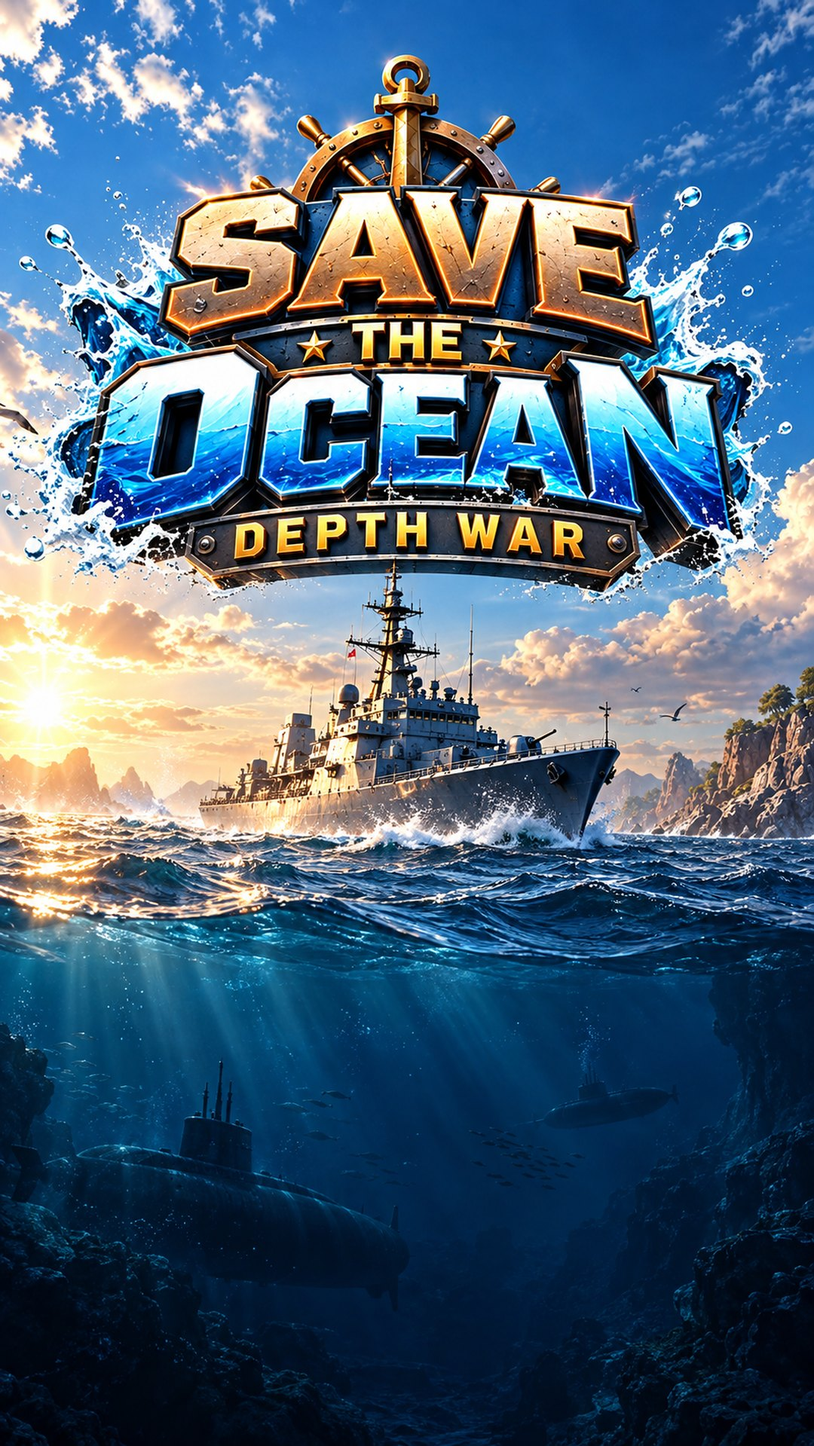
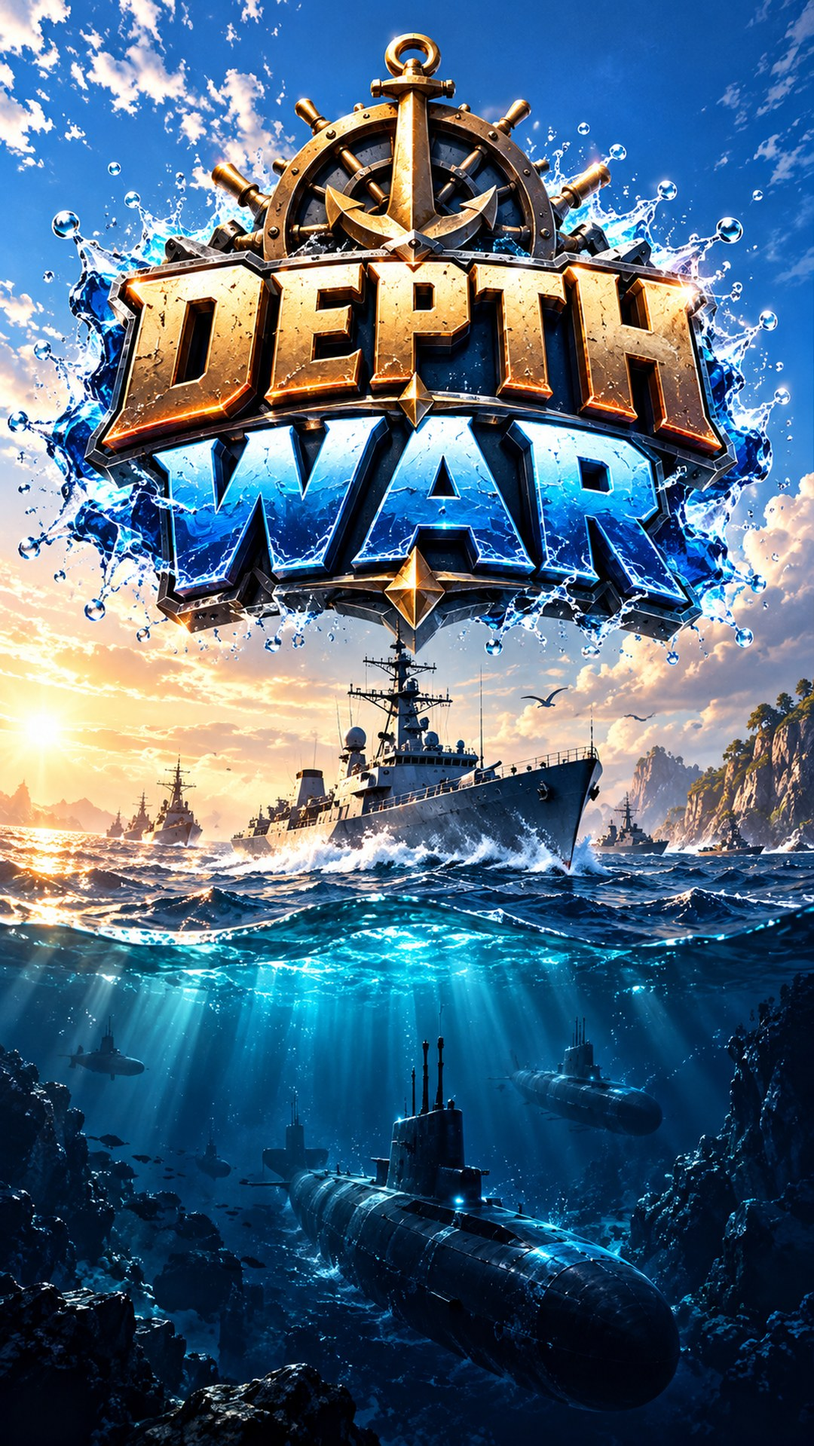
게임명 Depth War: 새 타이틀 그림, 표시 이름 변경
Claude-Session: https://claude.ai/code/session_01WgvuRkGvWVXd8dKBPW52ru

diff --git a/index.html b/index.html
@@ -6,7 +6,7 @@
 <meta name="apple-mobile-web-app-capable" content="yes">
 <meta name="mobile-web-app-capable" content="yes">
 <meta name="theme-color" content="#0a1a2e">
-<title>SAVE THE OCEAN: DEPTH WAR</title>
+<title>DEPTH WAR</title>
 <link rel="preconnect" href="https://fonts.googleapis.com">
 <link href="https://fonts.googleapis.com/css2?family=Orbitron:wght@600;800&display=swap" rel="stylesheet">
 <style>
@@ -183,7 +183,7 @@
   #subtitle::before, #subtitle::after { content: ''; width: 28px; height: 3px; border-radius: 2px; background: linear-gradient(90deg, transparent, #ffd24a); }
   #subtitle::after { transform: scaleX(-1); margin-left: -.3em; }
   /* 새 타이틀 그림 (SAVE THE OCEAN · DEPTH WAR) — 로고가 화면 위 41% 를 차지 */
-  #startOverlay { background: #04101c url(assets/title2.jpg) center top / 100% auto no-repeat; }
+  #startOverlay { background: #04101c url(assets/title2.jpg?v=2) center top / 100% auto no-repeat; }
   #startOverlay .spacer { flex: 0 0 calc(var(--app-w) * 0.75); min-height: 0; }
   /* ---------- 오래된 WebView(Chrome 87 이하) 대비: aspect-ratio · inset · flex gap 이 없을 때의 대체 배치 ---------- */
   @supports not (aspect-ratio: 1 / 1) {
@@ -324,8 +324,8 @@
   #recordBox.has-prof .pf-fac img { width: clamp(58px, calc(var(--app-w) * 0.17), 78px); height: clamp(58px, calc(var(--app-w) * 0.17), 78px); filter: drop-shadow(0 0 8px var(--fc)) drop-shadow(0 0 16px var(--fc)); }
   #recordBox.has-prof .pf-fac i { font-style: normal; font-weight: 800; font-size: 13px; color: var(--fc); font-family: system-ui, sans-serif; margin-top: 1px; text-shadow: 0 0 8px var(--fc); }
   /* ---------- 시작 화면: 제목 그림을 줄이고 지도 자리를 넓힌다 ---------- */
-  #startOverlay::after { content: ''; position: absolute; z-index: -1; left: 6%; width: 88%; top: calc(var(--app-w) * -0.05); height: calc(var(--app-w) * 1.5636); background: url(assets/title2.jpg) center / 100% 100% no-repeat; -webkit-mask-image: linear-gradient(90deg, transparent, #000 9%, #000 91%, transparent); mask-image: linear-gradient(90deg, transparent, #000 9%, #000 91%, transparent); pointer-events: none; }
-  #startOverlay .spacer { flex: 0 0 calc(var(--app-w) * 0.565); }
+  #startOverlay::after { content: ''; position: absolute; z-index: -1; left: 10%; width: 80%; top: calc(var(--app-w) * -0.02); height: calc(var(--app-w) * 1.4215); background: url(assets/title2.jpg?v=2) center / 100% 100% no-repeat; -webkit-mask-image: linear-gradient(90deg, transparent, #000 9%, #000 91%, transparent); mask-image: linear-gradient(90deg, transparent, #000 9%, #000 91%, transparent); pointer-events: none; }
+  #startOverlay .spacer { flex: 0 0 calc(var(--app-w) * 0.61); }
   /* ---------- 시작 버튼: 그림 버튼 ---------- */
   .start-btn { width: min(88%, 380px); aspect-ratio: 900 / 300; padding: 0; border: 0; border-radius: 0; background: url(assets/start_btn.png) center / contain no-repeat; box-shadow: none; filter: drop-shadow(0 4px 10px #000a) drop-shadow(0 0 14px #ffcb3b77); animation: goldPulse 1.8s ease-in-out infinite; }
   .start-btn:active { transform: scale(.95); box-shadow: none; }
@@ -435,14 +435,14 @@
 
 <script src="https://cdn.jsdelivr.net/npm/firebase@10.12.2/firebase-app-compat.js"></script>
 <script src="https://cdn.jsdelivr.net/npm/firebase@10.12.2/firebase-firestore-compat.js"></script>
-<script src="i18n.js?v=20261007d"></script>
+<script src="i18n.js?v=20261007e"></script>
 <script>I18N.apply();</script>
-<script src="firebase-config.js?v=20261007d"></script>
+<script src="firebase-config.js?v=20261007e"></script>
 <script>window.STO_CONFIG = { FREE_SUBMITS: 3, OPEN_UNLIMITED: true, WAR_BASE: 30000, CACHE_MIN: 5 };  // 결제 도입 시 OPEN_UNLIMITED 를 false 로</script>
 <script>document.write('<script src="season.js?v=' + new Date().toISOString().slice(0, 10) + '"><\/script><script src="war-seasons.js?v=' + new Date().toISOString().slice(0, 10) + '"><\/script>');</script>
-<script src="audio.js?v=20261007d"></script>
-<script src="leaderboard.js?v=20261007d"></script>
-<script src="war.js?v=20261007d"></script>
+<script src="audio.js?v=20261007e"></script>
+<script src="leaderboard.js?v=20261007e"></script>
+<script src="war.js?v=20261007e"></script>
 <script>
   // iOS 더블탭 확대/핀치 확대 방지 (버튼 연타 시 화면이 커지는 문제)
   (function () {
@@ -457,6 +457,6 @@
     document.addEventListener('dblclick', function (e) { e.preventDefault(); }, { passive: false });
   })();
 </script>
-<script src="game.js?v=20261007d"></script>
+<script src="game.js?v=20261007e"></script>
 </body>
 </html>

diff --git a/privacy.html b/privacy.html
@@ -1,9 +1,9 @@
 <!doctype html>
 <html lang="ko"><head><meta charset="utf-8"><meta name="viewport" content="width=device-width, initial-scale=1">
-<title>개인정보 처리방침 · Save the Ocean: Depth War</title>
+<title>개인정보 처리방침 · Depth War</title>
 <style>body{font-family:system-ui,sans-serif;max-width:720px;margin:0 auto;padding:24px 18px;line-height:1.65;color:#1b2430;background:#f6f9fc}h1{font-size:22px}h2{font-size:17px;margin-top:28px}hr{margin:40px 0;border:0;border-top:1px solid #ccd}small{color:#667}</style></head><body>
 <h1>개인정보 처리방침</h1>
-<p><b>Save the Ocean: Depth War</b> (이하 "게임") · 시행일 2026년 10월 7일</p>
+<p><b>Depth War</b> (이하 "게임") · 시행일 2026년 10월 7일</p>
 <h2>1. 수집하는 정보</h2>
 <p>게임은 로그인 없이 즐길 수 있습니다. 순위판에 기록을 올릴 때에만 아래 정보를 수집합니다.</p>
 <ul><li>로그인 계정 식별값: Apple 또는 Google 로그인으로 만들어지는 임의의 계정 번호 (이름·이메일은 순위판에 표시하지 않습니다)</li>
@@ -22,7 +22,7 @@
 <p><a href="mailto:bluecfdc@gmail.com">bluecfdc@gmail.com</a></p>
 <hr>
 <h1>Privacy Policy</h1>
-<p><b>Save the Ocean: Depth War</b> (the "Game") · Effective October 7, 2026</p>
+<p><b>Depth War</b> (the "Game") · Effective October 7, 2026</p>
 <h2>1. Information we collect</h2>
 <p>You can play without signing in. Only when you post a score to the leaderboard do we collect:</p>
 <ul><li>Account identifier: a random account ID created by Sign in with Apple or Google (your name and email are never shown on the leaderboard)</li>

diff --git a/i18n.js b/i18n.js
@@ -44,7 +44,7 @@
       'prof.need': '아이디, 국기, 세력을 모두 정해주세요.',
       'board.week': '🏆 이번 주 TOP 10',
       'test.badge': '🧪 새 버전 시험 중 — 기록은 시험용 게시판에 저장돼요',
-      'app.title': 'SAVE THE OCEAN — 군함 vs 잠수정',
+      'app.title': 'DEPTH WAR — 군함 vs 잠수정',
       'rotate': '세로로 돌려주세요',
       'rotate.sub': '이 게임은 세로 화면 전용입니다',
       'notice.ok': '확인',
@@ -166,7 +166,7 @@
       'prof.need': 'Please set an ID, a flag and a faction.',
       'board.week': '🏆 This week · TOP 10',
       'test.badge': '🧪 Preview build — scores go to a test board',
-      'app.title': 'SAVE THE OCEAN — Warship vs Submarines',
+      'app.title': 'DEPTH WAR — Warship vs Submarines',
       'rotate': 'Please rotate to portrait',
       'rotate.sub': 'This game is portrait-only',
       'notice.ok': 'OK',
@@ -288,7 +288,7 @@
       'prof.need': 'ID・国旗・勢力をすべて決めてください。',
       'board.week': '🏆 今週のTOP 10',
       'test.badge': '🧪 新バージョン試験中 — 記録は試験用ボードに保存されます',
-      'app.title': 'SAVE THE OCEAN — 軍艦 vs 潜水艦',
+      'app.title': 'DEPTH WAR — 軍艦 vs 潜水艦',
       'rotate': '縦向きにしてください',
       'rotate.sub': 'このゲームは縦画面専用です',
       'notice.ok': 'OK',

diff --git a/next/index.html b/next/index.html
@@ -1,1 +1,1 @@
-<!doctype html><meta charset="utf-8"><meta http-equiv="refresh" content="0; url=../"><title>Save the Ocean</title><a href="../">Save the Ocean</a>
+<!doctype html><meta charset="utf-8"><meta http-equiv="refresh" content="0; url=../"><title>Depth War</title><a href="../">Depth War</a>
